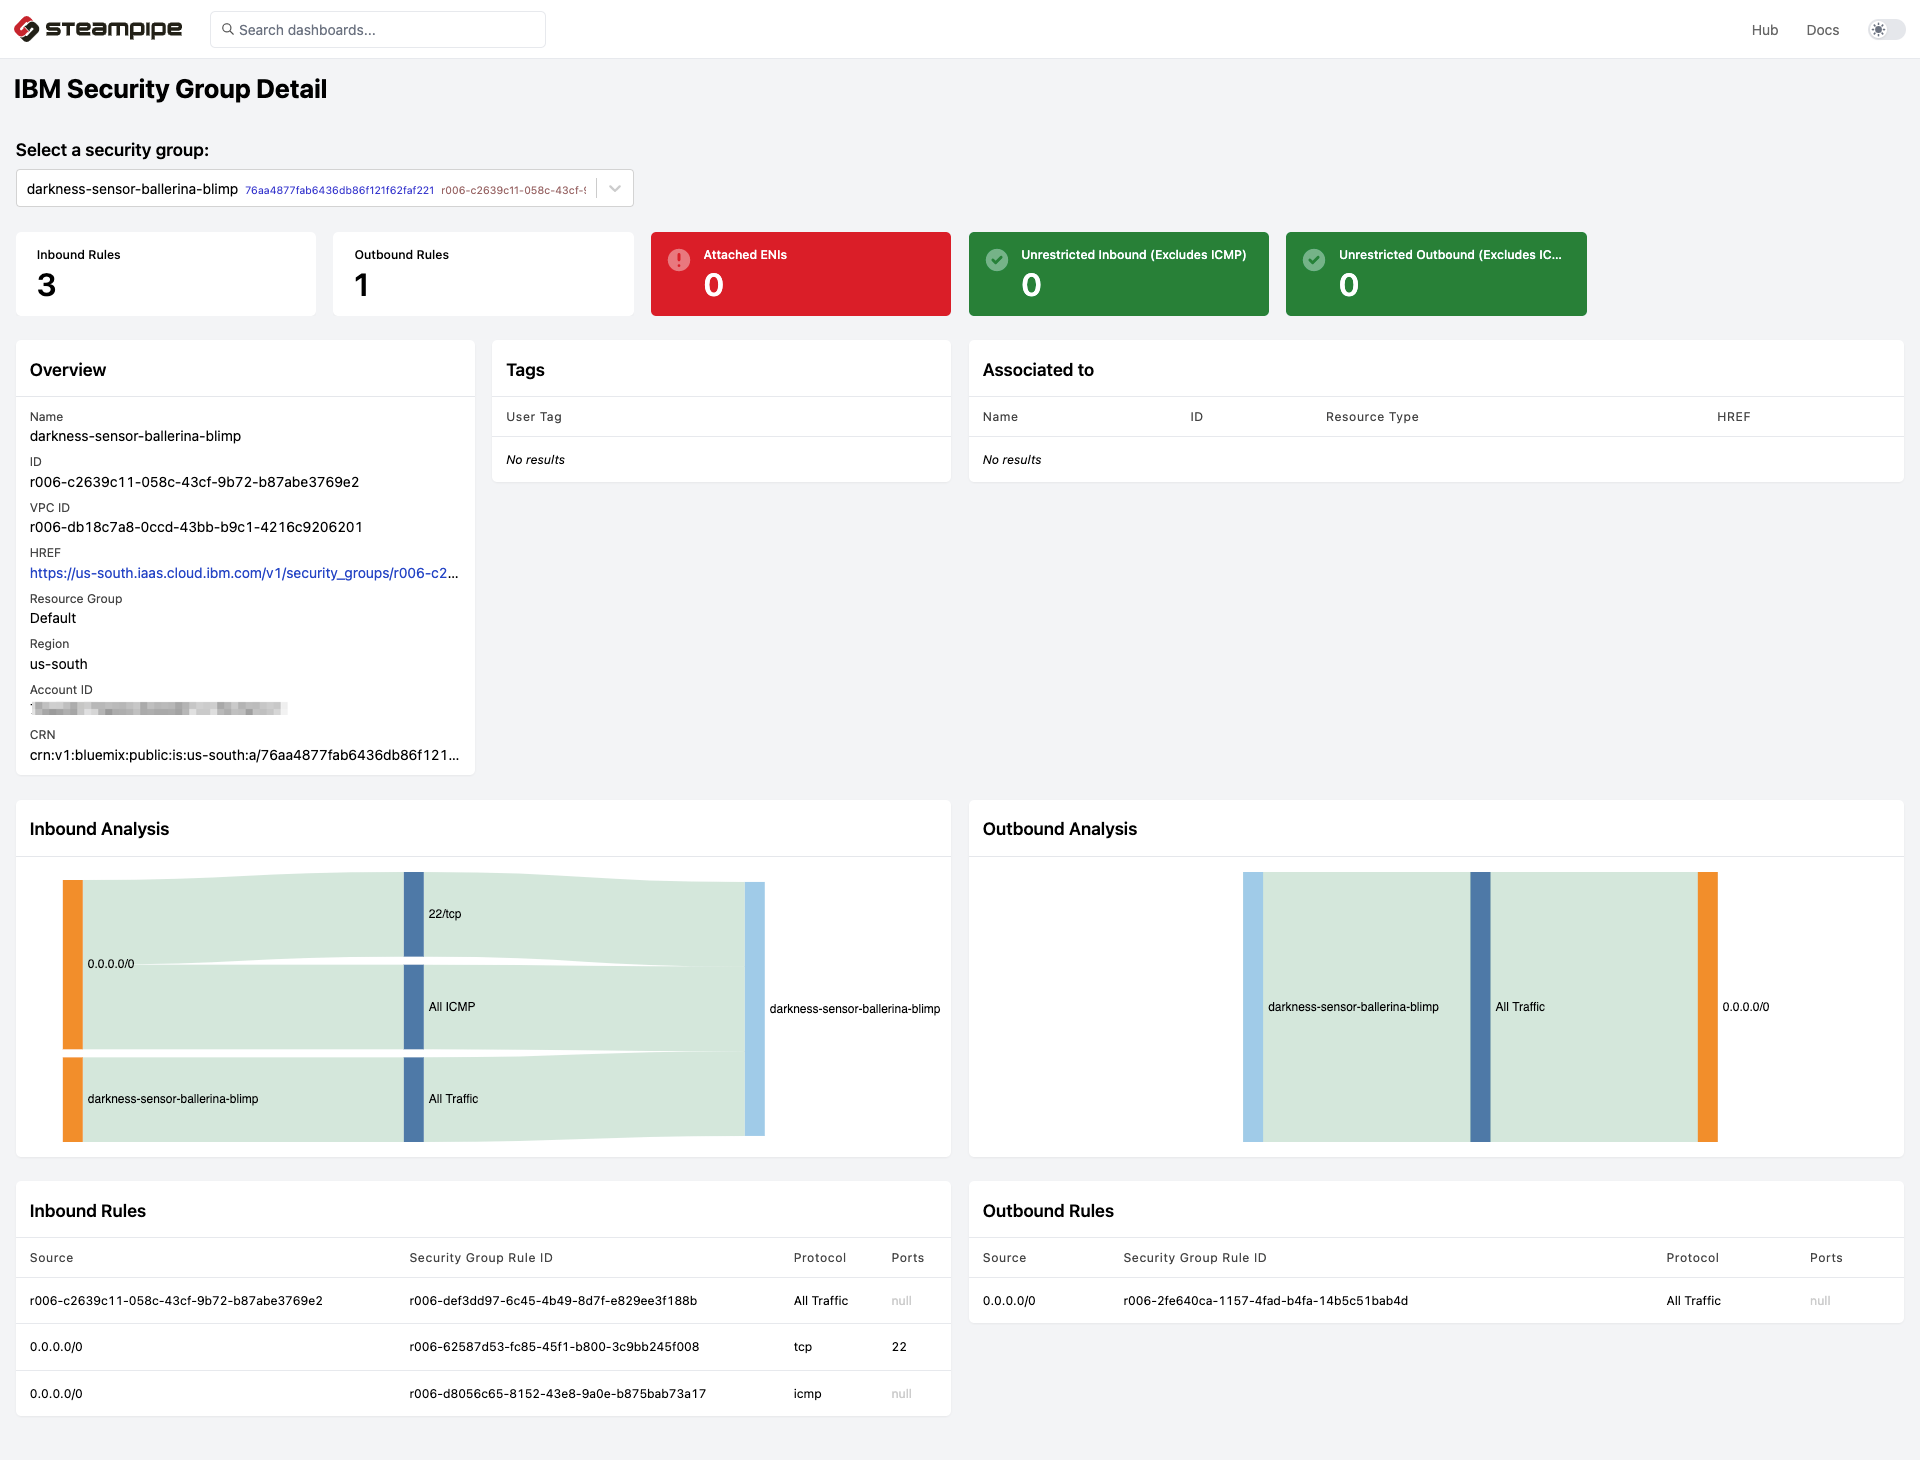
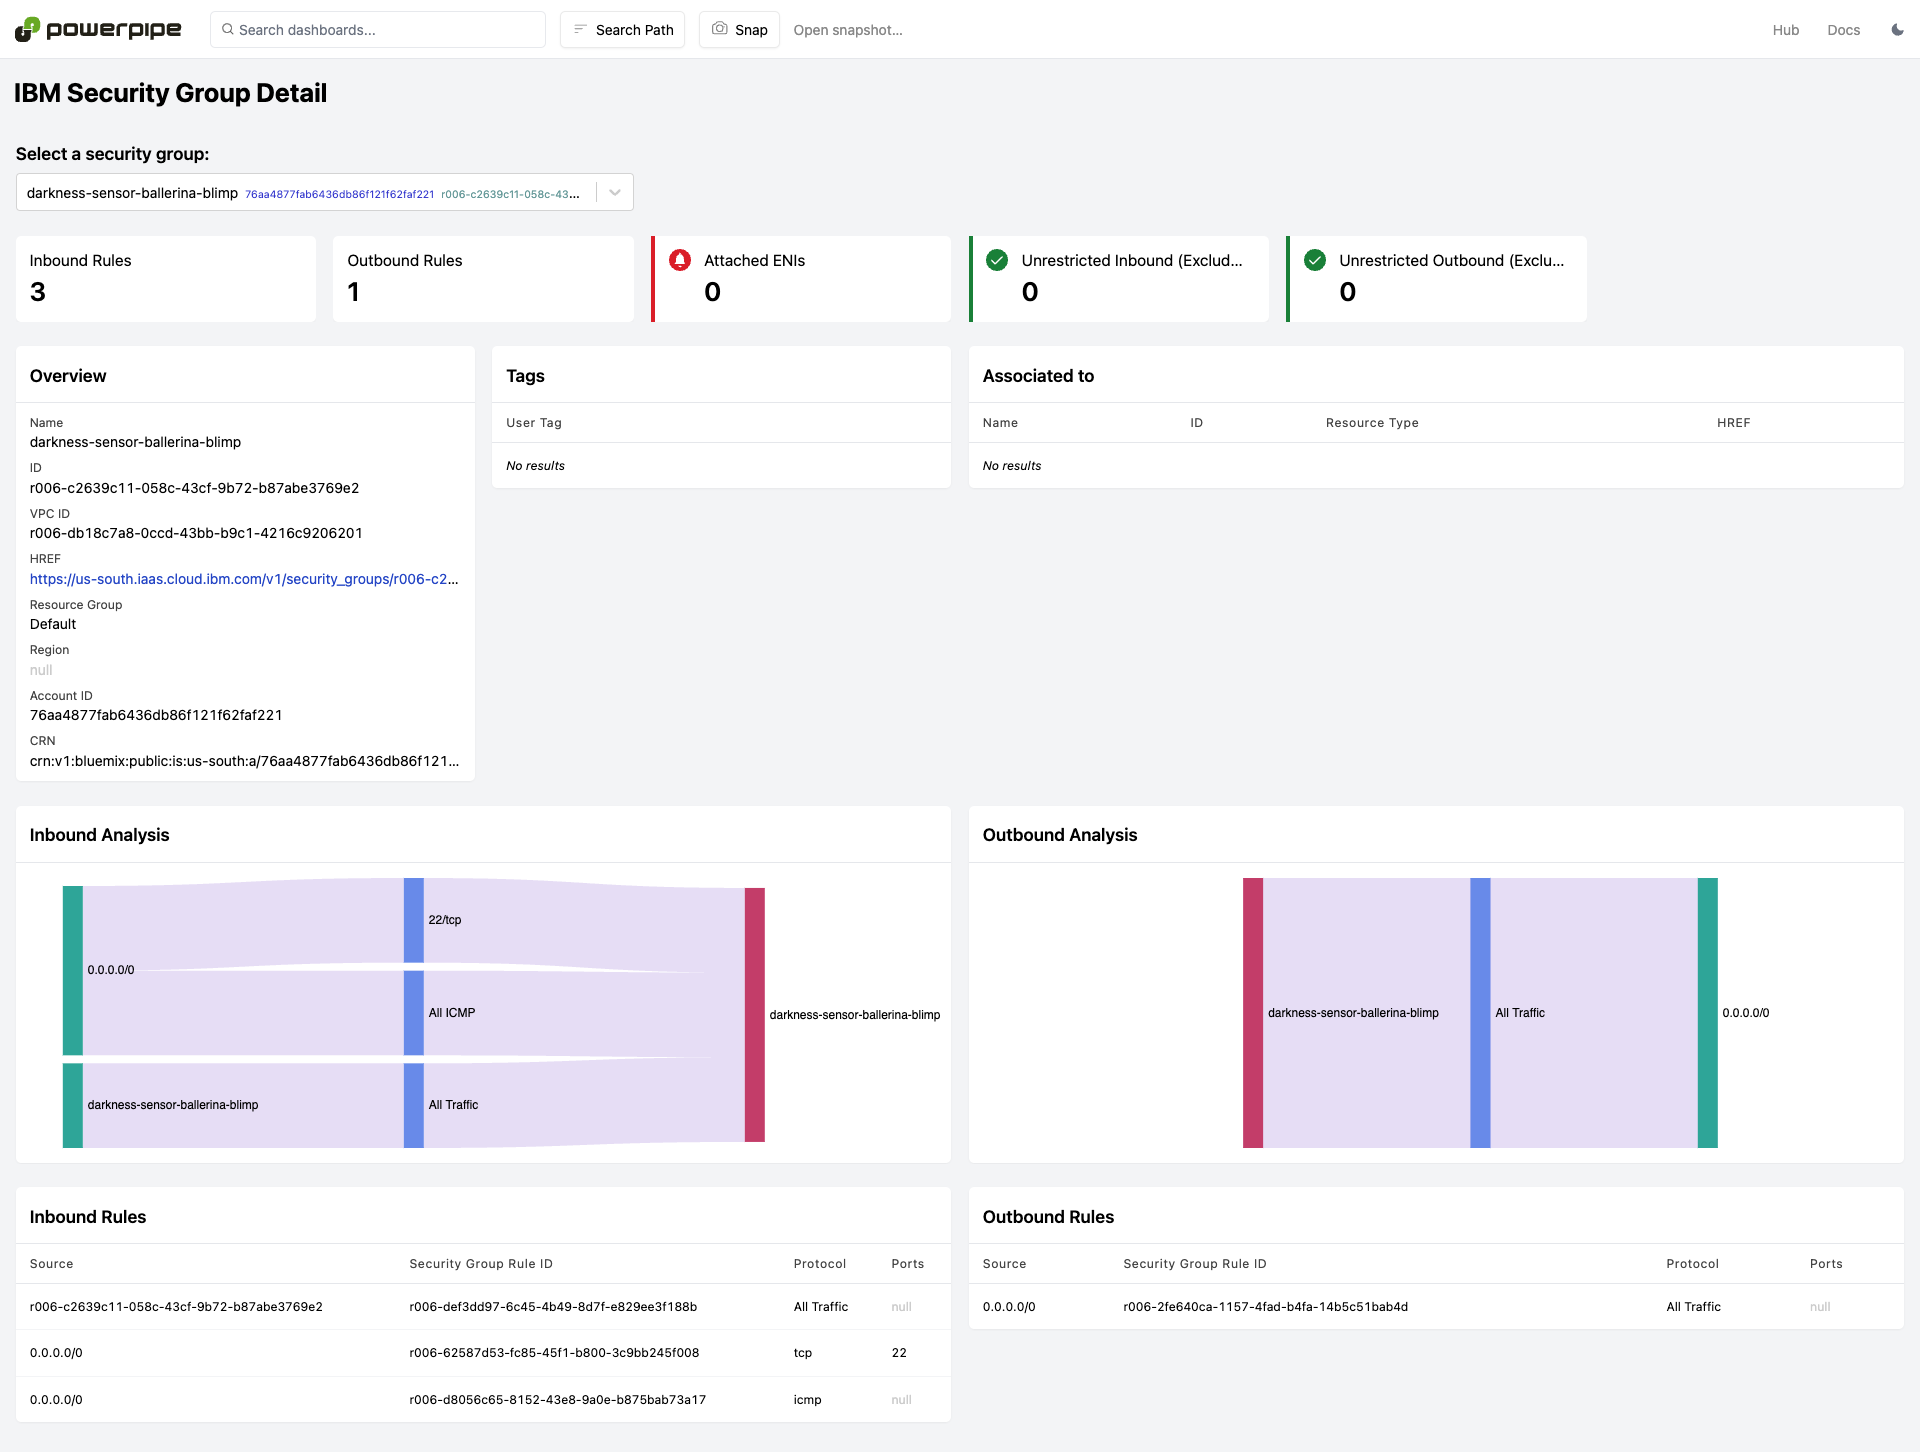
Update docs to the latest format (#45)

diff --git a/docs/index.md b/docs/index.md
@@ -1,90 +1,70 @@
----
-repository: "https://github.com/turbot/steampipe-mod-ibm-insights"
----
-
 # IBM Cloud Insights Mod
 
-Create dashboards and reports for your IBM Cloud resources using Steampipe.
+Create dashboards and reports for your IBM Cloud resources using Powerpipe and Steampipe.
 
-<img src="https://raw.githubusercontent.com/turbot/steampipe-mod-ibm-insights/main/docs/images/ibm_compute_instance_age_report.png" width="50%" type="thumbnail"/>
-<img src="https://raw.githubusercontent.com/turbot/steampipe-mod-ibm-insights/main/docs/images/ibm_kms_key_dashboard.png" width="50%" type="thumbnail"/>
+<img src="https://raw.githubusercontent.com/turbot/steampipe-mod-ibm-insights/main/docs/images/ibm_compute_instance_detail.png" width="50%" type="thumbnail"/>
+<img src="https://raw.githubusercontent.com/turbot/steampipe-mod-ibm-insights/main/docs/images/ibm_blockstorage_volume_detail.png" width="50%" type="thumbnail"/>
 <img src="https://raw.githubusercontent.com/turbot/steampipe-mod-ibm-insights/main/docs/images/ibm_security_group_detail.png" width="50%" type="thumbnail"/>
 <img src="https://raw.githubusercontent.com/turbot/steampipe-mod-ibm-insights/main/docs/images/ibm_vpc_detail.png" width="50%" type="thumbnail"/>
 
-## Overview
-
-Dashboards can help answer questions like:
-
-- How many resources do I have?
-- How old are my resources?
-- Are there any publicly accessible resources?
-- Is encryption enabled and what keys are used for encryption?
-
-Dashboards are available for Block Storage, Compute, Disk, KMS Key, and VPC services.
-
-## References
-
-[IBM Cloud](https://www.ibm.com/cloud/) provides on-demand cloud computing platforms and APIs to authenticated customers on a metered pay-as-you-go basis.
-
-[Steampipe](https://steampipe.io) is an open source CLI to instantly query cloud APIs using SQL.
-
-[Steampipe Mods](https://steampipe.io/docs/reference/mod-resources#mod) are collections of `named queries`, codified `controls` that can be used to test current configuration of your cloud resources against a desired configuration, and `dashboards` that organize and display key pieces of information.
-
 ## Documentation
 
-- **[Dashboards →](https://hub.steampipe.io/mods/turbot/ibm_insights/dashboards)**
+- **[Benchmarks and controls →](https://hub.powerpipe.io/mods/turbot/ibm_compliance/controls)**
+- **[Named queries →](https://hub.powerpipe.io/mods/turbot/ibm_compliance/queries)**
 
-## Getting started
+## Getting Started
 
 ### Installation
 
-Download and install Steampipe (https://steampipe.io/downloads). Or use Brew:
+Install Powerpipe (https://powerpipe.io/downloads), or use Brew:
 
 ```sh
-brew tap turbot/tap
-brew install steampipe
+brew install turbot/tap/powerpipe
 ```
 
-Install the IBM Cloud plugin with [Steampipe](https://steampipe.io):
+This mod also requires [Steampipe](https://steampipe.io) with the [IBM Cloud plugin](https://hub.steampipe.io/plugins/turbot/ibm) as the data source. Install Steampipe (https://steampipe.io/downloads), or use Brew:
 
 ```sh
+brew install turbot/tap/steampipe
 steampipe plugin install ibm
 ```
 
-Clone:
+Finally, install the mod:
 
 ```sh
-git clone https://github.com/turbot/steampipe-mod-ibm-insights.git
-cd steampipe-mod-ibm-insights
+mkdir dashboards
+cd dashboards
+powerpipe mod init
+powerpipe mod install github.com/turbot/steampipe-mod-ibm-insights
 ```
 
-### Usage
+### Browsing Dashboards
 
-Start your dashboard server to get started:
+Start Steampipe as the data source:
 
 ```sh
-steampipe dashboard
+steampipe service start
 ```
 
-By default, the dashboard interface will then be launched in a new browser window at http://localhost:9194. From here, you can view dashboards and reports.
+Start the dashboard server:
 
-### Credentials
+```sh
+powerpipe server
+```
 
-This mod uses the credentials configured in the [Steampipe IBM Cloud plugin](https://hub.steampipe.io/plugins/turbot/ibm).
+Browse and view your dashboards at **http://localhost:9033**.
 
-### Configuration
+## Open Source & Contributing
 
-No extra configuration is required.
+This repository is published under the [Apache 2.0 license](https://www.apache.org/licenses/LICENSE-2.0). Please see our [code of conduct](https://github.com/turbot/.github/blob/main/CODE_OF_CONDUCT.md). We look forward to collaborating with you!
 
-## Contributing
+[Steampipe](https://steampipe.io) and [Powerpipe](https://powerpipe.io) are products produced from this open source software, exclusively by [Turbot HQ, Inc](https://turbot.com). They are distributed under our commercial terms. Others are allowed to make their own distribution of the software, but cannot use any of the Turbot trademarks, cloud services, etc. You can learn more in our [Open Source FAQ](https://turbot.com/open-source).
 
-If you have an idea for additional dashboards or just want to help maintain and extend this mod ([or others](https://github.com/topics/steampipe-mod)) we would love you to join the community and start contributing.
+## Get Involved
 
-- **[Join #steampipe on Slack →](https://turbot.com/community/join)** and hang out with other Mod developers.
+**[Join #powerpipe on Slack →](https://turbot.com/community/join)**
 
-Please see the [contribution guidelines](https://github.com/turbot/steampipe/blob/main/CONTRIBUTING.md) and our [code of conduct](https://github.com/turbot/steampipe/blob/main/CODE_OF_CONDUCT.md). All contributions are subject to the [Apache 2.0 open source license](https://github.com/turbot/steampipe-mod-ibm-insights/blob/main/LICENSE).
+Want to help but don't know where to start? Pick up one of the `help wanted` issues:
 
-Want to help but not sure where to start? Pick up one of the `help wanted` issues:
-
-- [Steampipe](https://github.com/turbot/steampipe/labels/help%20wanted)
-- [IBM Cloud Insights Mod](https://github.com/turbot/steampipe-mod-ibm-insights/labels/help%20wanted)
+- [Powerpipe](https://github.com/turbot/powerpipe/labels/help%20wanted)
+- [IBM Insights Mod](https://github.com/turbot/steampipe-mod-ibm-insights/labels/help%20wanted)

diff --git a/README.md b/README.md
@@ -1,71 +1,72 @@
-# IBM Cloud Insights Mod for Steampipe
+# IBM Cloud Insights Mod for Powerpipe
+
+> [!IMPORTANT]  
+> [Powerpipe](https://powerpipe.io) is now the preferred way to run this mod! [Migrating from Steampipe →](https://powerpipe.io/blog/migrating-from-steampipe)
+>
+> All v0.x versions of this mod will work in both Steampipe and Powerpipe, but v1.0.0 onwards will be in Powerpipe format only.
 
 An IBM Cloud dashboarding tool that can be used to view dashboards and reports across all of your IBM Cloud accounts.
 
 ![image](https://raw.githubusercontent.com/turbot/steampipe-mod-ibm-insights/main/docs/images/ibm_vpc_detail.png)
 
-## Overview
+## Documentation
 
-Dashboards can help answer questions like:
+- **[Benchmarks and controls →](https://hub.powerpipe.io/mods/turbot/ibm_compliance/controls)**
+- **[Named queries →](https://hub.powerpipe.io/mods/turbot/ibm_compliance/queries)**
 
-- How many resources do I have?
-- How old are my resources?
-- Are there any publicly accessible resources?
-- Is encryption enabled and what keys are used for encryption?
-
-Dashboards are available for Block Storage, Compute, Disk, KMS Key, and VPC services.
-
-## Getting started
+## Getting Started
 
 ### Installation
 
-Download and install Steampipe (https://steampipe.io/downloads). Or use Brew:
+Install Powerpipe (https://powerpipe.io/downloads), or use Brew:
 
 ```sh
-brew tap turbot/tap
-brew install steampipe
+brew install turbot/tap/powerpipe
 ```
 
-Install the IBM Cloud plugin with [Steampipe](https://steampipe.io):
+This mod also requires [Steampipe](https://steampipe.io) with the [IBM Cloud plugin](https://hub.steampipe.io/plugins/turbot/ibm) as the data source. Install Steampipe (https://steampipe.io/downloads), or use Brew:
 
 ```sh
+brew install turbot/tap/steampipe
 steampipe plugin install ibm
 ```
 
-Clone:
+Finally, install the mod:
 
 ```sh
-git clone https://github.com/turbot/steampipe-mod-ibm-insights.git
-cd steampipe-mod-ibm-insights
+mkdir dashboards
+cd dashboards
+powerpipe mod init
+powerpipe mod install github.com/turbot/steampipe-mod-ibm-insights
 ```
 
-### Usage
+### Browsing Dashboards
 
-Start your dashboard server to get started:
+Start Steampipe as the data source:
 
 ```sh
-steampipe dashboard
+steampipe service start
 ```
 
-By default, the dashboard interface will then be launched in a new browser window at http://localhost:9194. From here, you can view dashboards and reports.
+Start the dashboard server:
 
-### Credentials
+```sh
+powerpipe server
+```
 
-This mod uses the credentials configured in the [Steampipe IBM Cloud plugin](https://hub.steampipe.io/plugins/turbot/ibm).
+Browse and view your dashboards at **http://localhost:9033**.
 
-### Configuration
+## Open Source & Contributing
 
-No extra configuration is required.
+This repository is published under the [Apache 2.0 license](https://www.apache.org/licenses/LICENSE-2.0). Please see our [code of conduct](https://github.com/turbot/.github/blob/main/CODE_OF_CONDUCT.md). We look forward to collaborating with you!
 
-## Contributing
+[Steampipe](https://steampipe.io) and [Powerpipe](https://powerpipe.io) are products produced from this open source software, exclusively by [Turbot HQ, Inc](https://turbot.com). They are distributed under our commercial terms. Others are allowed to make their own distribution of the software, but cannot use any of the Turbot trademarks, cloud services, etc. You can learn more in our [Open Source FAQ](https://turbot.com/open-source).
 
-If you have an idea for additional dashboards or just want to help maintain and extend this mod ([or others](https://github.com/topics/steampipe-mod)) we would love you to join the community and start contributing.
+## Get Involved
 
-- **[Join #steampipe on Slack →](https://turbot.com/community/join)** and hang out with other Mod developers.
+**[Join #powerpipe on Slack →](https://turbot.com/community/join)**
 
-Please see the [contribution guidelines](https://github.com/turbot/steampipe/blob/main/CONTRIBUTING.md) and our [code of conduct](https://github.com/turbot/steampipe/blob/main/CODE_OF_CONDUCT.md). All contributions are subject to the [Apache 2.0 open source license](https://github.com/turbot/steampipe-mod-ibm-insights/blob/main/LICENSE).
+Want to help but don't know where to start? Pick up one of the `help wanted` issues:
 
-Want to help but not sure where to start? Pick up one of the `help wanted` issues:
-
-- [Steampipe](https://github.com/turbot/steampipe/labels/help%20wanted)
-- [IBM Cloud Insights Mod](https://github.com/turbot/steampipe-mod-ibm-insights/labels/help%20wanted)
+- [Powerpipe](https://github.com/turbot/powerpipe/labels/help%20wanted)
+- [IBM Insights Mod](https://github.com/turbot/steampipe-mod-ibm-insights/labels/help%20wanted)

diff --git a/.github/ISSUE_TEMPLATE/bug_report.md b/.github/ISSUE_TEMPLATE/bug_report.md
@@ -10,6 +10,9 @@ assignees: ''
 **Describe the bug**
 A clear and concise description of what the bug is.
 
+**Powerpipe version (`powerpipe -v`)**
+Example: v0.3.0
+
 **Steampipe version (`steampipe -v`)**
 Example: v0.3.0
 
